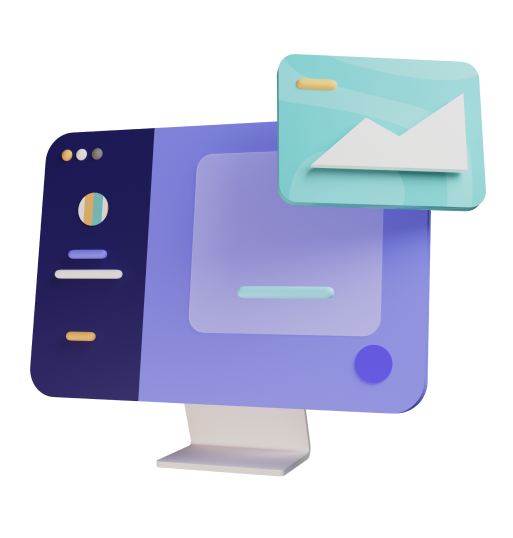
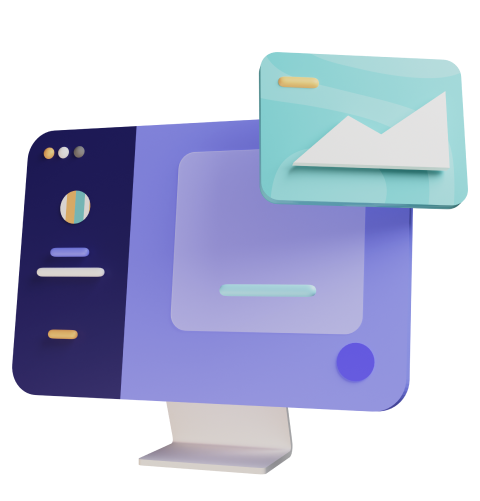
Added some motion using marquee and hover the navigation

Changed region(s): [[0.0, 0.1198, 1.0, 0.9581], [0.5312, 0.0898, 0.9062, 0.1796], [0.0938, 0.5988, 0.1875, 0.6886]]

diff --git a/style.css b/style.css
@@ -58,47 +58,55 @@ header nav .navtitle .links li a{
     text-decoration:none;
     color:rgba(255, 255, 255, 0.881);
 }
-section{
+header nav .navtitle .links li a:hover{
+    color:#9894dc;
+}
+/* header nav .navtitle .links:hover{
+    border-bottom:2px solid #9894dc;
+} */
+#sec1{
     /* border:2px solid red; */
     display:flex;
     justify-content: space-between;
     padding:50px 200px 50px 200px;
     width:100%;
 }
-section .left{
+#sec1 .left{
     /* border:2px solid black; */
     width:40%;
     padding-top:5%;
+    height:450px;
 }
-section .left .t1{
+#sec1 .left .t1{
     /* border:2px solid yellow; */
     font-size:65px;
     font-weight:bolder;
     line-height:65px;
 }
-section .right{
+#sec1 .right{
     /* border:2px solid red; */
+    height:450px;
     width:45%;
 }
-section .right img{
+#sec1 .right img{
     /* border:2px solid blue; */
-    width:100%;
-    height:95%;
+    width:90%;
+    height:80%;
 }
-section .left .t2{
+#sec1 .left .t2{
     /* border:2px solid blue; */
     font-weight:bold;
     letter-spacing:1.5px;
     padding: 10% 10% 10% 0%;
     /* letter-spacing: 1px; */
 }
-section .left .t3{
+#sec1 .left .t3{
     /* border:2px solid red; */
     width:94%;
     display:flex;
     justify-content: space-between;
 }
-section .left .t3 button{
+#sec1 .left .t3 button{
     padding:12px 38px;
     border-radius:25px;
     font-size:22px;
@@ -109,7 +117,7 @@ section .left .t3 button{
     background-color:#9894dc;
     background-color:rgba(6,16,43,255);
 }
-section .left .t3 button:hover{
+#sec1 .left .t3 button:hover{
     color:white;
     background-color:#9894dc;
 }

diff --git a/index.html b/index.html
@@ -24,7 +24,7 @@
             </div>
         </nav>
     </header>
-    <section>
+    <section id="sec1">
         <div class="left">
             <div class="t1">
                 Discover <br>And Collect <br>Rare NFTs
@@ -34,7 +34,7 @@
             <button>Sell NFTs</button></div>
         </div>
         <div class="right">
-            <a href="#"><img src="Images/Other 07.png" alt=""></a>
+            <a href="#"><marquee scrollamount="1" direction="up" height="100%" behavior="alternate"><img src="Images/Other 07.png" alt=""></a></marquee>
         </div>
     </section>
 </body>
